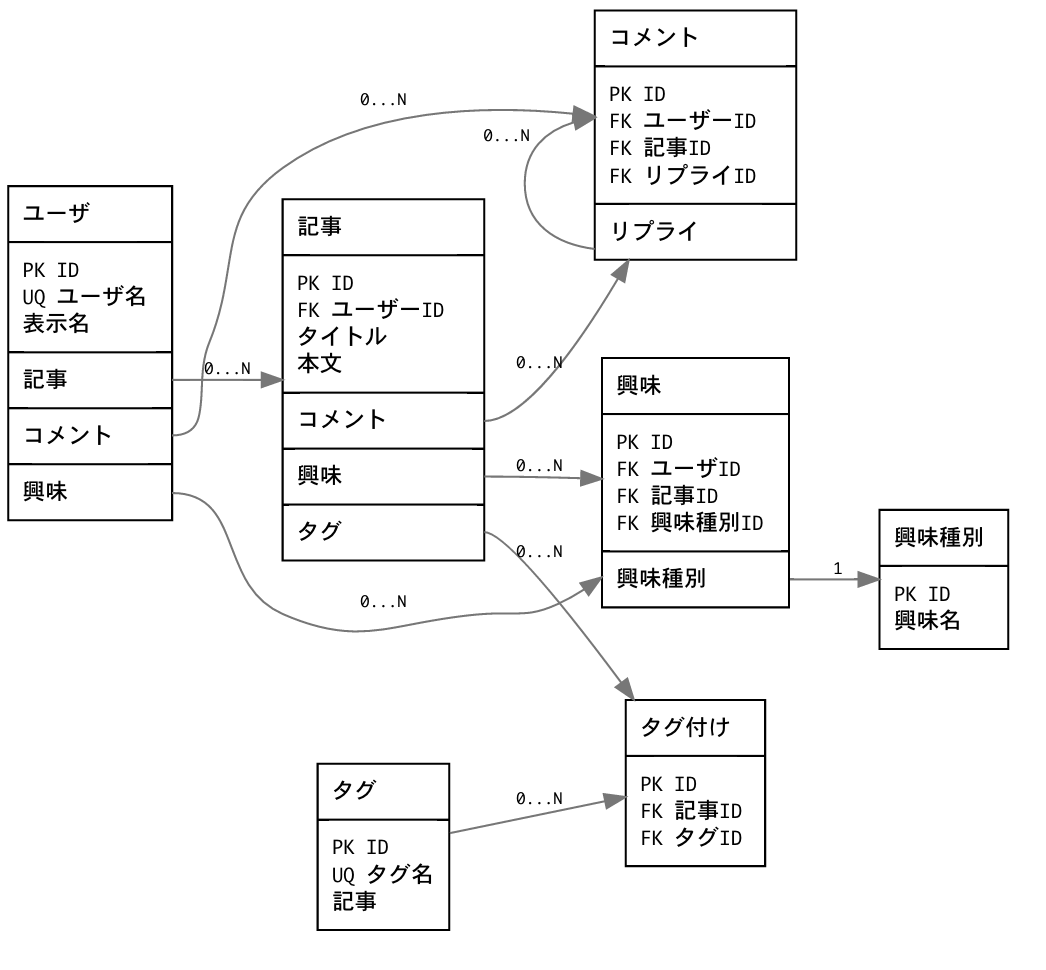
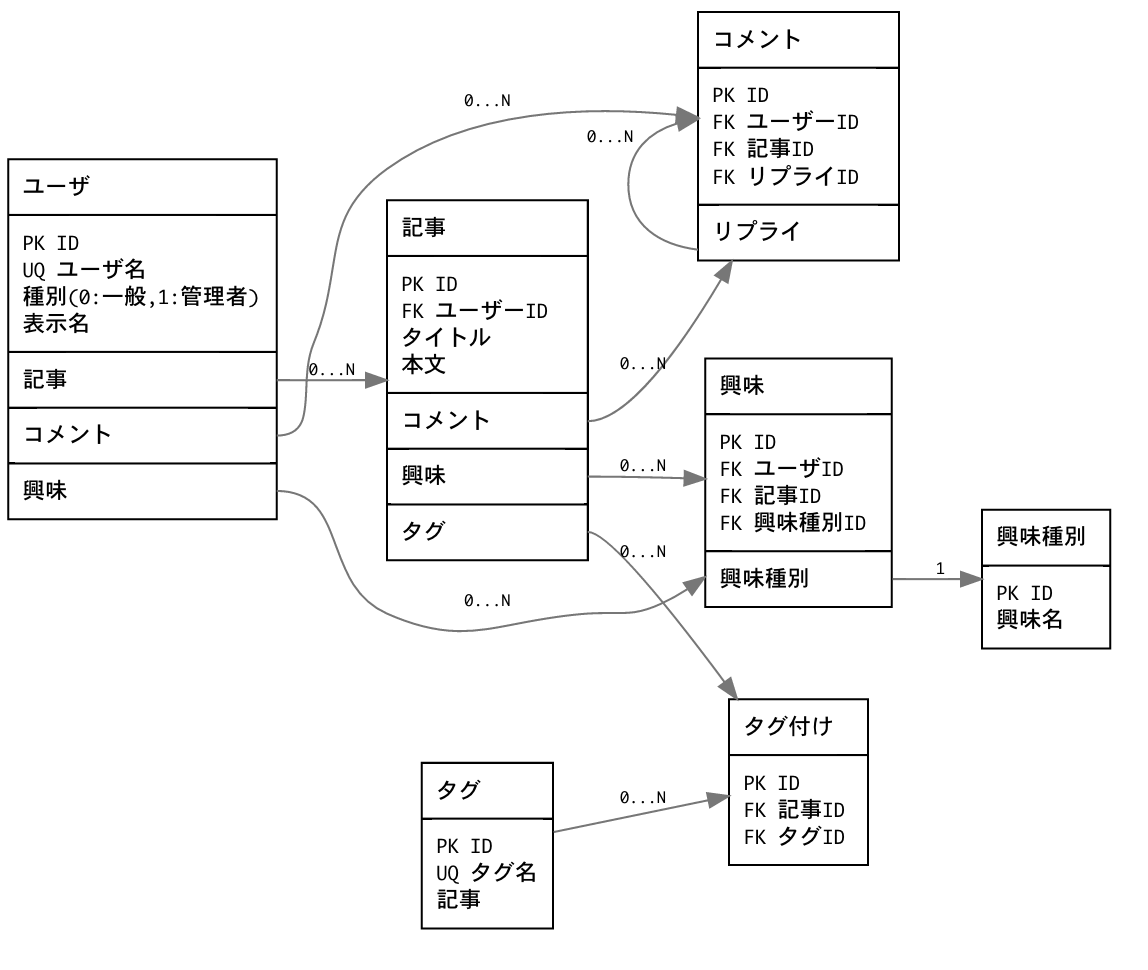
update db to add users.type

diff --git a/backend/database/migrations/2019_05_25_152201_create_users_table.php b/backend/database/migrations/2019_05_25_152201_create_users_table.php
@@ -17,6 +17,7 @@ class CreateUsersTable extends Migration
             $table->bigIncrements('id');
             $table->string('name')->unique();
             $table->string('display_name');
+            $table->integer('type');
             $table->timestamps();
         });
     }
